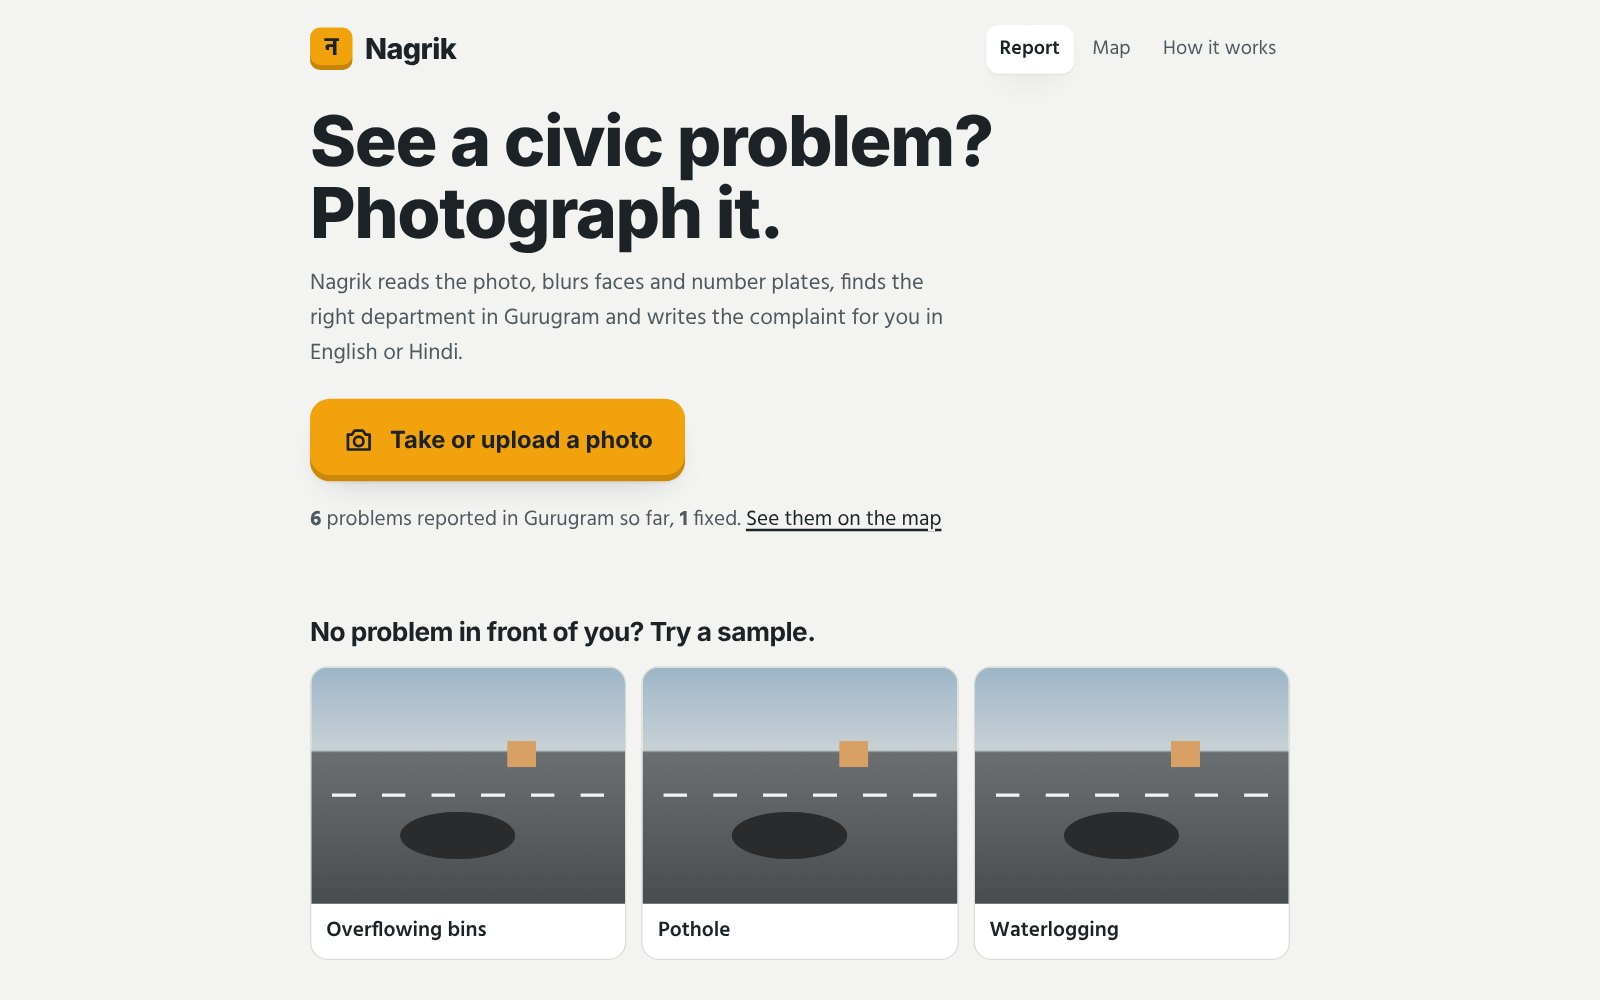
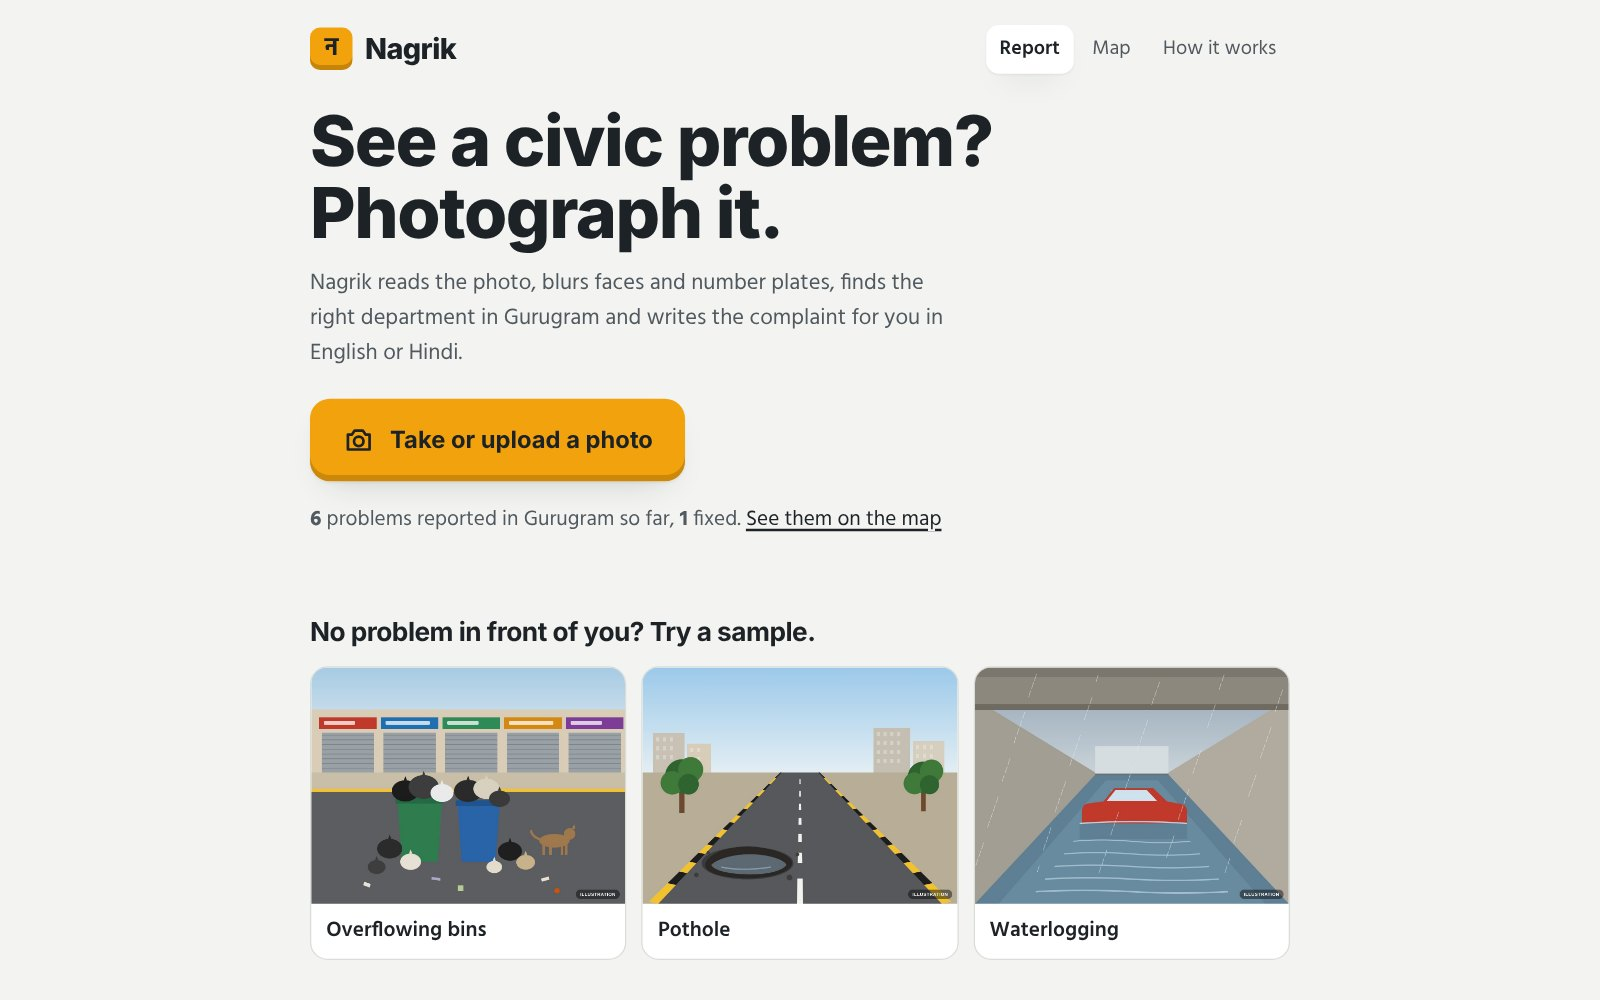
Launch polish: contrast, landmarks, Nagrik screenshots, README project list
- Small dim text and coloured badges now meet 4.5:1 contrast in both themes
- The floating Say hi button sits in a labelled landmark
- Nagrik screenshots show its sample illustrations
- README lists every project with live and code links; sitemap gets lastmod

Claude-Session: https://claude.ai/code/session_01RYPCC68CgJErTqYwePtdio

Changed region(s): [[0.1875, 0.651, 0.8125, 0.93]]

diff --git a/index.html b/index.html
@@ -40,7 +40,7 @@
   --line-2: rgba(255, 255, 255, .16);
   --fg: #eef0f7;
   --muted: #a3a9be;
-  --dim: #6f7690;
+  --dim: #80879f;
   --violet: #a99bff;
   --teal: #5ee7d0;
   --amber: #ffc46b;
@@ -533,13 +533,14 @@ section { padding-block: var(--sec-pad); scroll-margin-top: calc(var(--nav-h) - 
 .tl-axis span:first-child { transform: none; }
 .tl-axis span:last-child { transform: translateX(-100%); }
 .tl-track { position: relative; height: 44px; border-radius: 11px; background: repeating-linear-gradient(90deg, var(--line) 0 1px, transparent 1px 12.5%), color-mix(in srgb, var(--surface-2) 55%, transparent); }
-.tl-bar { position: absolute; top: 6px; height: 32px; left: var(--l); width: var(--w); border: 0; border-radius: 9px; background: var(--c); color: #0a0c12; font-weight: 700; font-size: 13.5px; display: flex; align-items: center; padding: 0 12px; white-space: nowrap; cursor: pointer; transform-origin: left; transition: transform .9s var(--ease) var(--d, 0s), box-shadow .3s, filter .3s; box-shadow: inset 0 -2px 0 rgba(0,0,0,.18); }
+.tl-bar { position: absolute; top: 6px; height: 32px; left: var(--l); width: var(--w); border: 0; border-radius: 9px; background: var(--c); color: var(--on-c, #0a0c12); font-weight: 700; font-size: 13.5px; display: flex; align-items: center; padding: 0 12px; white-space: nowrap; cursor: pointer; transform-origin: left; transition: transform .9s var(--ease) var(--d, 0s), box-shadow .3s, filter .3s; box-shadow: inset 0 -2px 0 rgba(0,0,0,.18); }
+[style*="--c:var(--sky)"], [style*="--c:var(--violet)"], [style*="--c:var(--blue)"], [style*="--c:var(--rose)"] { --on-c: var(--tl-ink, #0a0c12); }
 .tl-bar span { overflow: hidden; text-overflow: ellipsis; }
 .tl-bar.out span { position: absolute; left: calc(100% + 10px); color: var(--fg); overflow: visible; }
 .tl-bar:hover, .tl-bar.on { box-shadow: inset 0 -2px 0 rgba(0,0,0,.18), 0 0 0 3px color-mix(in srgb, var(--c) 35%, transparent); filter: brightness(1.08); }
 .tl.rv:not(.in) .tl-bar { transform: scaleX(.06); }
 .tl-now { position: absolute; top: 0; bottom: 0; left: calc(var(--name) + (100% - var(--name)) * .979); width: 0; border-left: 2px dashed var(--amber); pointer-events: none; }
-.tl-now b { position: absolute; top: -4px; right: 8px; font-family: var(--f-mono); font-size: 11px; font-weight: 600; color: var(--amber); white-space: nowrap; }
+.tl-now b { position: absolute; top: -4px; right: 8px; font-family: var(--f-mono); font-size: 11px; font-weight: 600; color: var(--amber-ink, var(--amber)); white-space: nowrap; }
 .tl-now i { position: absolute; bottom: 14px; left: -7px; width: 12px; height: 12px; border-radius: 50%; background: var(--amber); animation: pulseA 2.2s infinite; }
 @keyframes pulseA { 0% { box-shadow: 0 0 0 0 color-mix(in srgb, var(--amber) 60%, transparent); } 70% { box-shadow: 0 0 0 10px transparent; } 100% { box-shadow: 0 0 0 0 transparent; } }
 .tl-hint { margin-top: 14px; font-size: 13.5px; color: var(--muted); }
@@ -549,7 +550,7 @@ section { padding-block: var(--sec-pad); scroll-margin-top: calc(var(--nav-h) - 
 .ch.on { border-color: var(--c); box-shadow: 0 0 0 1px var(--c), 0 24px 40px -26px color-mix(in srgb, var(--c) 70%, transparent); }
 @media (hover: hover) and (pointer: fine) { .ch:hover { transform: translateY(-4px); border-color: color-mix(in srgb, var(--c) 60%, var(--line)); } }
 .ch-top { display: flex; align-items: center; gap: 12px; }
-.org { width: 46px; height: 46px; border-radius: 12px; display: grid; place-items: center; background: var(--c); color: #0a0c12; font-family: var(--f-display); font-weight: 800; font-size: 15px; letter-spacing: -0.02em; flex: none; box-shadow: inset 0 -3px 0 rgba(0,0,0,.18); }
+.org { width: 46px; height: 46px; border-radius: 12px; display: grid; place-items: center; background: var(--c); color: var(--on-c, #0a0c12); font-family: var(--f-display); font-weight: 800; font-size: 15px; letter-spacing: -0.02em; flex: none; box-shadow: inset 0 -3px 0 rgba(0,0,0,.18); }
 .ch-when { display: block; font-family: var(--f-mono); font-size: 12px; color: var(--fg); font-variant-numeric: tabular-nums; }
 .ch-dur { display: inline-block; margin-top: 3px; font-family: var(--f-mono); font-size: 11px; padding: 2px 8px; border-radius: 999px; color: var(--c); border: 1px solid color-mix(in srgb, var(--c) 45%, transparent); }
 .ch h3 { font-size: clamp(20px, 1.9vw, 23px); font-weight: 800; margin-top: 6px; }
@@ -897,7 +898,9 @@ html.theme-anim, html.theme-anim *, html.theme-anim *::before, html.theme-anim *
   --line-2: rgba(17, 18, 20, .18);
   --fg: #111214;
   --muted: #565a63;
-  --dim: #868a94;
+  --dim: #63676f;
+  --tl-ink: #fff;
+  --amber-ink: #8a5300;
   --violet: #5b45f0;
   --teal: #0b8f7a;
   --amber: #b86e00;
@@ -961,7 +964,9 @@ html.theme-anim, html.theme-anim *, html.theme-anim *::before, html.theme-anim *
   --line-2: rgba(17, 18, 20, .18);
   --fg: #111214;
   --muted: #565a63;
-  --dim: #868a94;
+  --dim: #63676f;
+  --tl-ink: #fff;
+  --amber-ink: #8a5300;
   --violet: #5b45f0;
   --teal: #0b8f7a;
   --amber: #b86e00;
@@ -1541,7 +1546,7 @@ html.theme-anim, html.theme-anim *, html.theme-anim *::before, html.theme-anim *
   </div>
 </footer>
 
-<a class="fab magnet" id="fab" href="#contact"><span class="wave" aria-hidden="true">👋</span> Say hi</a>
+<aside aria-label="Quick contact"><a class="fab magnet" id="fab" href="#contact"><span class="wave" aria-hidden="true">👋</span> Say hi</a></aside>
 
 <div class="pal-back" id="pal" hidden>
   <div class="pal" role="dialog" aria-modal="true" aria-label="Command menu">

diff --git a/README.md b/README.md
@@ -4,6 +4,18 @@ My personal site: a 3D, light/dark portfolio built as one static page (HTML, CSS
 
 **Live:** https://shreygupta-three.vercel.app
 
+## Projects on the site
+
+| Project | What it is | Live | Code |
+| --- | --- | --- | --- |
+| SayDo | Voice to-do list for English, Hindi and Hinglish, with a tested on-device parser | [saydo-psi.vercel.app](https://saydo-psi.vercel.app) | [saydo](https://github.com/shreycodeslit/saydo) |
+| ShaadiOS | Indian wedding planner with an AI agent that answers from your own numbers | [shaadios-xi.vercel.app](https://shaadios-xi.vercel.app) | [shaadios](https://github.com/shreycodeslit/shaadios) |
+| Nagrik | Photo to civic complaint for Gurugram, routed to the right department | [nagrik-jet.vercel.app](https://nagrik-jet.vercel.app) | [nagrik](https://github.com/shreycodeslit/nagrik) |
+| Atlas | One map for many interests, with links found by embeddings | [atlas-smoky-mu.vercel.app](https://atlas-smoky-mu.vercel.app) | [atlas](https://github.com/shreycodeslit/atlas) |
+| HungerBridge | Connects surplus food with nearby NGOs | [hungerbridge.vercel.app](https://hungerbridge.vercel.app) | [frontend](https://github.com/shreycodeslit/hungerbridge-frontend) · [backend](https://github.com/shreycodeslit/hungerbridge-backend) |
+| ToneTuner | AI writing assistant on the Claude API | [tonetuner-shrey.vercel.app](https://tonetuner-shrey.vercel.app) | [tonetuner](https://github.com/shreycodeslit/tonetuner) |
+| That's How Presidents Kill Time | Jokes, trivia and mini games on public APIs | [presidents-kill-time.vercel.app](https://presidents-kill-time.vercel.app) | [thatshowpresidentskilltime](https://github.com/shreycodeslit/thatshowpresidentskilltime) |
+
 ## Editing
 
 Everything you'd normally change lives in the `SITE` block near the top of the main `<script>` in `index.html`:
